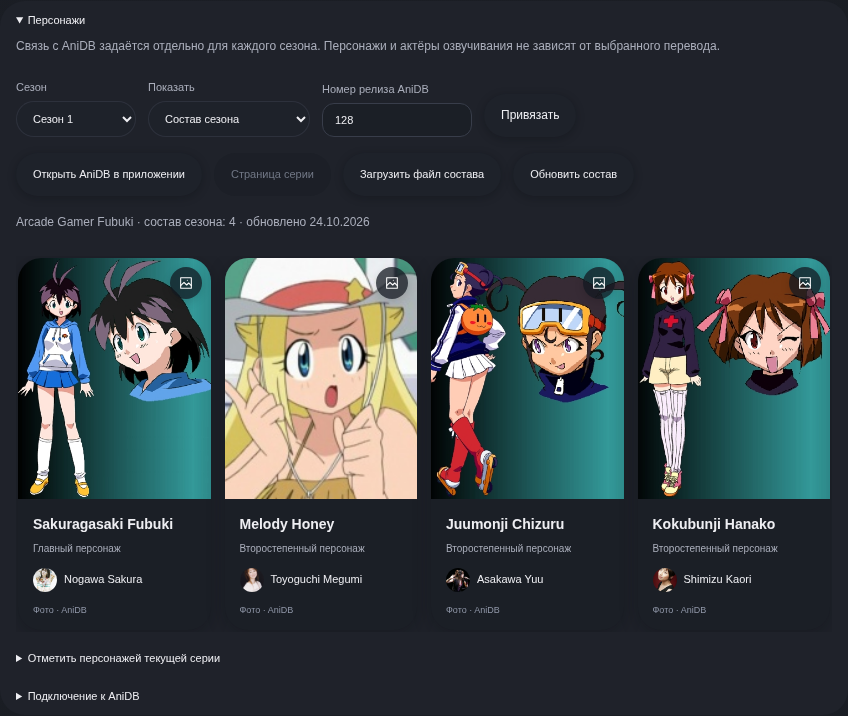
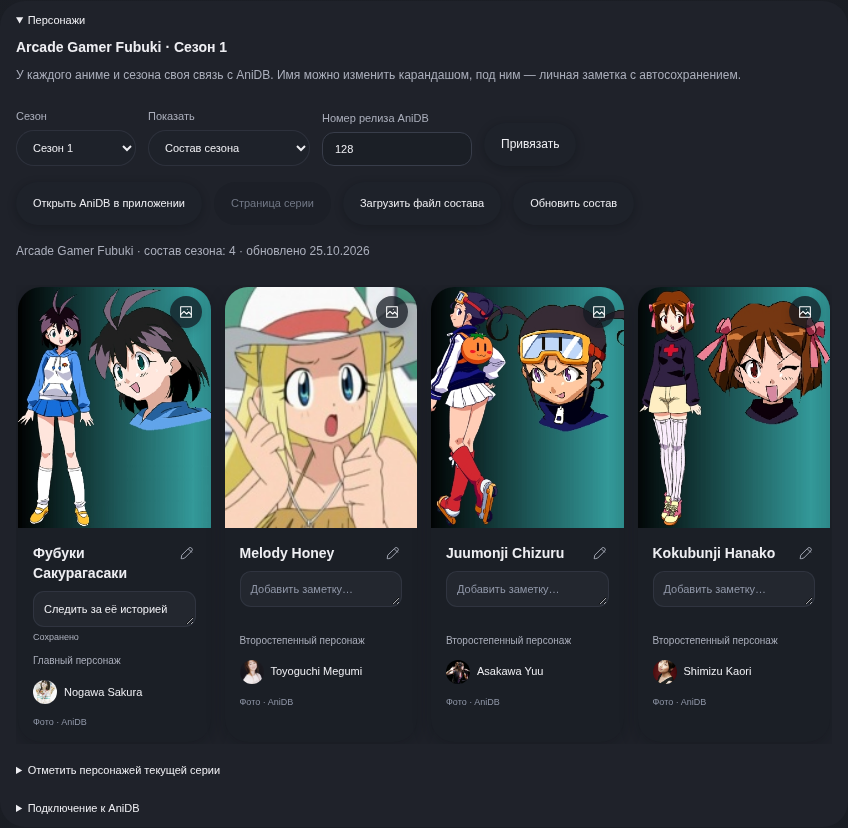
docs: show per-anime character names and notes in Yoru 0.6.3 [skip ci]

diff --git a/README.md b/README.md
@@ -1,18 +1,24 @@
 # Yoru — Windows-плеер для аниме
 
-В локальной версии **Yoru 0.6.2** появились оригинальная озвучка, отдельные переводы субтитров от разных студий, два встроенных плеера и панель AniDB. В 0.6.2 смягчены кнопки и страница просмотра, добавлены фотографии персонажей и сэйю. Постеры, темы и собственная палитра сохранены.
+В локальной версии **Yoru 0.6.3** появились оригинальная озвучка, отдельные переводы субтитров от разных студий, два встроенных плеера и панель AniDB. В 0.6.3 добавлены редактирование имени персонажа и строка личной заметки прямо под ним. Мягкий дизайн и фотографии персонажей/сэйю сохранены. Постеры, темы и собственная палитра сохранены.
 
-**Ниже — снимки локальной версии 0.6.2. В публичной ветке `main` пока опубликован код прежней версии 0.2 под названием «Кадр». Новый код не отправлен в открытый репозиторий.**
+**Ниже — снимки локальной версии 0.6.3. В публичной ветке `main` пока опубликован код прежней версии 0.2 под названием «Кадр». Новый код не отправлен в открытый репозиторий.**
 
-### Мягкий дизайн и фотографии персонажей в 0.6.2
+### Свой состав, имена и заметки в 0.6.3
+
+У каждого аниме и сезона своя привязка к релизу AniDB. Над карточками теперь видно название аниме и сезона. Для каждого нужны данные правильного релиза; универсальный пример в библиотеку не подставляется. Автоматическая загрузка составов всей библиотеки пока не реализована.
+
+Карандаш рядом с именем открывает редактирование; исходное имя можно вернуть. Сразу под именем есть узкая строка **«Добавить заметку…»** с автосохранением. Она расширяется при вводе. Личные имена и заметки относятся к аниме, релизу и персонажу, сохраняются после перезапуска и обновления состава, не исчезают при очистке кэша и не переходят в другое аниме. [Как пользоваться и где хранятся записи](docs/character-details.md).
+
+### Мягкий дизайн и фотографии персонажей
 
 Кнопки, поля и вкладки получили мягкие скругления, спокойные границы и состояния наведения. Страница просмотра собрана в единую панель. Изучено расположение элементов ранее указанного Yummyani; сохранены темы Yoru и компактная строка управления.
 
 Карточки получают фотографии персонажей и сэйю из данных AniDB. Кнопка на фото позволяет выбрать замену через MyAnimeList/Jikan либо вставить собственную HTTPS-ссылку. Выбор сохраняется при обновлении состава; исходное фото можно вернуть. Если изображение не загрузилось, остаются имя, роль и кнопка замены.
 
-![Фотографии персонажей и сэйю из AniDB — Yoru 0.6.2](docs/images/anidb-cast.png)
+![Фотографии персонажей и сэйю из AniDB — Yoru 0.6.3](docs/images/anidb-cast.png)
 
-На снимке — Arcade Gamer Fubuki: четыре персонажа из публичного архива XML AniDB и восемь настоящих фотографий с CDN (HTTP 200). Это архивные данные, не свежий ответ API. Живой поиск Jikan в облачной сети получил CONNECT 403; сценарий поиска проверен на контролируемых ответах. [Источники и ограничения](docs/character-photos.md).
+На снимке — Arcade Gamer Fubuki: четыре персонажа из публичного архива XML AniDB и восемь настоящих фотографий с CDN (HTTP 200). Это архивные данные, не свежий ответ API. Русское имя первой героини и заметка — пример личных подписей пользователя. Живой поиск Jikan в облачной сети получил CONNECT 403; сценарий поиска проверен на контролируемых ответах. [Источники и ограничения](docs/character-photos.md).
 
 ### Компактный плеер
 
@@ -26,7 +32,7 @@
 
 Выбери **«Озвучка → Оригинал»**; приоритет у японской дорожки. Кнопка **«Параметры просмотра → Добавить источник или перевод»** добавляет варианты от разных переводчиков из UTF-8 файлов или HTTPS-ссылок SRT/VTT/ASS/SSA. У каждого варианта отдельные название и текст. SRT/VTT поддерживают размер и фон; ASS/SSA сохраняют авторские стили через libass. Задержка доступна для добавленных файлов и ссылок.
 
-![Yoru 0.6.2 — перевод с оформлением поверх тестового видео, не видеопоток аниме](docs/images/original-player.png)
+![Yoru 0.6.3 — перевод с оформлением поверх тестового видео, не видеопоток аниме](docs/images/original-player.png)
 
 Встроенные плееры **«Основной»** и **«Альтернативный»** сохраняют позицию, паузу, громкость, отключение звука и скорость при переключении. Автовосстановление сохраняет выбранные язык и качество.
 
@@ -40,11 +46,11 @@
 
 ### Библиотека, темы и настройки
 
-![Yoru 0.6.2 — библиотека с настоящими постерами аниме](docs/images/library.png)
+![Yoru 0.6.3 — библиотека с настоящими постерами аниме](docs/images/library.png)
 
 [Выбор постера](docs/images/poster-picker.png) · [Светлая тема](docs/images/settings-cream.png) · [Сакура](docs/images/settings-sakura.png) · [Своя палитра](docs/images/settings-custom.png) · [Подробные настройки](docs/images/settings-manual.png)
 
-Все изображения в [docs/images](docs/images) относятся к локальной версии 0.6.2. При установке библиотека пустая. Снимки используют тестовые видеоссылки; состав на снимке AniDB — из архивного XML, портреты — с CDN AniDB, постеры — из каталога AniLibria. [Как устроены обложки](docs/posters.md).
+Все изображения в [docs/images](docs/images) относятся к локальной версии 0.6.3. При установке библиотека пустая. Снимки используют тестовые видеоссылки; состав на снимке AniDB — из архивного XML, портреты — с CDN AniDB, постеры — из каталога AniLibria. [Как устроены обложки](docs/posters.md).
 
 ## Опубликованная версия 0.2 — прежнее название «Кадр»
 

diff --git a/docs/character-details.md b/docs/character-details.md
@@ -1,0 +1,27 @@
+# Свой состав, имена и заметки — Yoru 0.6.3
+
+Инструкция к локальной версии 0.6.3. Новый код пока не опубликован в открытой ветке `main`; здесь размещены документация и снимки.
+
+Панель «Персонажи» относится к открытому аниме и выбранному сезону. Над карточками видны оба названия. Связь с AniDB ID хранится у самого аниме для каждого сезона; XML другого релиза отклоняется. В новой библиотеке нет заранее подставленного состава. Данные нужно импортировать или загрузить через собственный зарегистрированный HTTP-клиент AniDB. Полная автоматическая загрузка всех аниме и полный состав каждой серии пока не реализованы.
+
+## Как пользоваться
+
+1. Нажми карандаш рядом с именем персонажа. Укажи свою подпись и нажми «Сохранить имя». В окне всегда видно исходное имя AniDB.
+2. Под именем введи текст в строку «Добавить заметку…». Поле расширяется при фокусе. После паузы 400 мс или ухода из поля появится «Сохранено». Отдельной кнопки для заметки не нужно.
+3. Для возврата имени нажми «Исходное имя», затем «Сохранить имя». Заметка при этом остаётся. Чтобы удалить заметку, очисти её поле.
+
+Имя — до 160 символов, заметка — до 500. Текст показывается буквально, без выполнения HTML. Поля не перехватывают горячие клавиши плеера, смена подписи не перезапускает видео. Подпись в ручном списке персонажей серии также обновляется. Поиск фотографии продолжает использовать исходное имя, чтобы личное прозвище не ухудшало результаты.
+
+## Где сохраняются записи
+
+Имена и заметки хранятся локально в профиле приложения, отдельно от обновляемого AniDB-кэша. Ключ записи включает ID аниме в библиотеке, ID релиза AniDB и ID персонажа. Одинаковое имя или даже одинаковый релиз у двух разных записей библиотеки не смешивают личные подписи. Другой релиз сезона получает отдельные записи; исходные имена и связи AniDB не меняются.
+
+Обновление/повторный импорт XML и вытеснение состава из ограниченного кэша не удаляют записи. Когда тот же состав с теми же ID снова загружен, личные подписи появляются вновь. Если источник сменит ID персонажа, подписи не угадываются по имени и не переносятся автоматически. Изменение ID аниме в импортируемой библиотеке тоже создаёт другую привязку. Перенос одного списка видеоссылок не переносит локальные заметки; профиль нужно сохранять отдельно.
+
+При ошибке записи поле сохраняет набранный текст и показывает ошибку вместо «Сохранено». После восстановления места можно снова войти и выйти из поля для повторной записи. Пока сохранить не удалось, не закрывай приложение. Повреждённое хранилище личных подписей не перезаписывается автоматически.
+
+## Проверки
+
+Unit-проверки подтверждают раздельные записи для разных аниме/релизов/персонажей, восстановление после перезапуска хранилища, сохранность при замене/вытеснении кэша, ограничения текста, отказ записи и защиту повреждённого хранилища. Браузер проверяет редактирование имени, заметку прямо под ним, обновление XML, переключение двух аниме с одним AniDB ID, другой сезон, перезагрузку, возврат исходного имени и повторную запись после ошибки. Видео при редактировании остаётся тем же элементом и на паузе.
+
+Снимок [карточек](images/anidb-cast.png) использует архивный состав Arcade Gamer Fubuki с настоящими фотографиями CDN AniDB; русское имя первой героини и заметка — пример личных подписей. Это не локализация из AniDB. [Происхождение данных и фотографий](character-photos.md).

diff --git a/docs/viewing-0.6.md b/docs/viewing-0.6.md
@@ -1,4 +1,4 @@
-# Оригинал, переводы субтитров, плееры и AniDB — Yoru 0.6.2
+# Оригинал, переводы субтитров, плееры и AniDB — Yoru 0.6.3
 
 ## Как смотреть
 
@@ -51,6 +51,12 @@ AniDB HTTP XML содержит персонажей/сэйю релиза, **н
 Нажми кнопку фотографии в углу карточки. Можно найти персонажа через MyAnimeList/Jikan, проверить результат и сохранить его, либо вставить собственную HTTPS-ссылку. Первый результат не выбирается автоматически. «Исходное фото» и затем «Сохранить фото» убирают замену. Выбор связан с ID персонажа и релиза, сохраняется после перезапуска/обновления и не переносится на одноимённых персонажей другого релиза.
 
 Отказ изображения оставляет имя, роль и кнопку замены. Ошибка поиска не останавливает воспроизведение. Поиск Jikan в текущей облачной сети получил CONNECT 403; обработка результатов проверена на контролируемых ответах, живой поиск здесь не подтверждён. [Источники фотографий и подробности проверки](character-photos.md).
+
+## Личные имена и заметки в 0.6.3
+
+В панели видно название текущего аниме и выбранный сезон. Их состав берётся по связке с AniDB: у каждого аниме и сезона указывается собственный ID, при переходе данные другого релиза не подставляются. Автоматическая загрузка всей библиотеки не реализована.
+
+Карандаш рядом с именем открывает его редактирование (до 160 символов). Исходное имя AniDB видно в окне; «Исходное имя» и «Сохранить имя» возвращают его. Под именем находится заметка до 500 символов с автосохранением после короткой паузы или ухода из поля. Она расширяется при фокусе. Имя и заметка сохраняются в профиле независимо от кэша состава; другое аниме, другой релиз или персонаж с таким же именем не получает эти записи. [Хранение и ограничения](character-details.md).
 
 ## Проверки и примеры
 

diff --git a/docs/images/README.md b/docs/images/README.md
@@ -1,4 +1,4 @@
-# Актуальные снимки Yoru 0.6.2
+# Актуальные снимки Yoru 0.6.3
 
 Все PNG в этой папке пересняты из текущего интерфейса. Старые снимки с буквами и неоднородным фоном удалены.
 
@@ -9,7 +9,7 @@
 - `settings-manual.png` — подробные ручные настройки.
 - `original-player.png` — компактный плеер с русскими подписями и переводом с оформлением поверх тестового видео.
 - `player-settings.png` — отдельное окно параметров просмотра.
-- `anidb-cast.png` — персонажи Arcade Gamer Fubuki и фото сэйю: сведения из архивного AniDB XML релиза 128, изображения с CDN AniDB. Полный состав сезона/серий снимком не подтверждается.
+- `anidb-cast.png` — персонажи Arcade Gamer Fubuki, редактируемое имя, личная заметка и фото сэйю: сведения из архивного AniDB XML релиза 128, изображения с CDN AniDB. Полный состав сезона/серий снимком не подтверждается.
 
 Снимки создаются браузерными тестами из подготовленных данных. Начальная библиотека приложения пустая; показанные видеоссылки — тестовые. Обложки получены из каталога AniLibria, права принадлежат их правообладателям. Подробнее: [posters.md](../posters.md).
 
